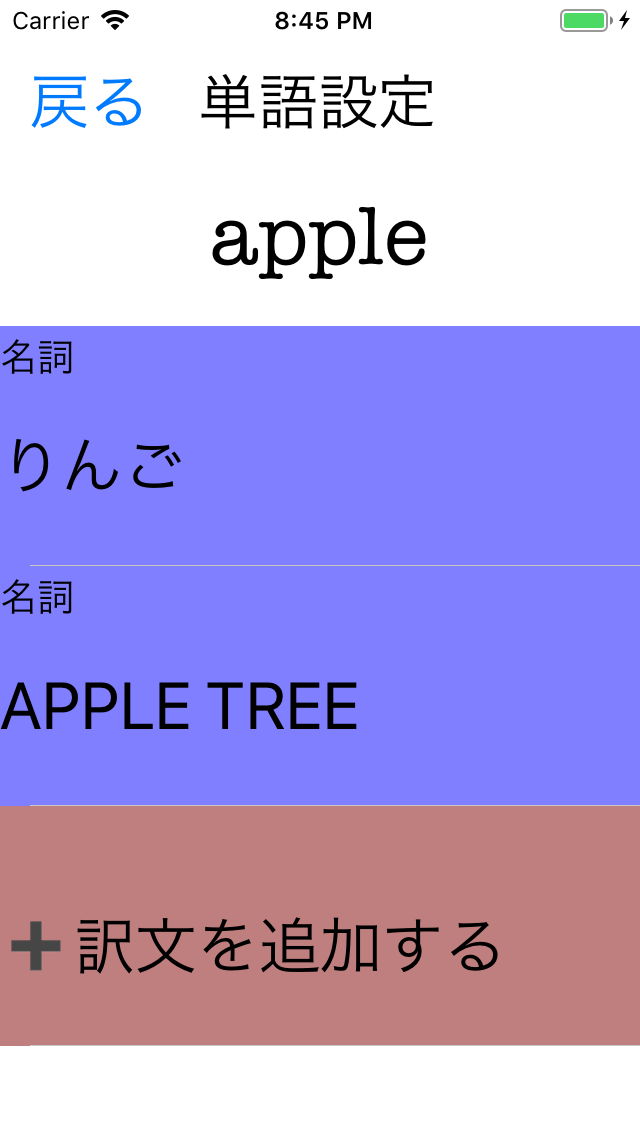
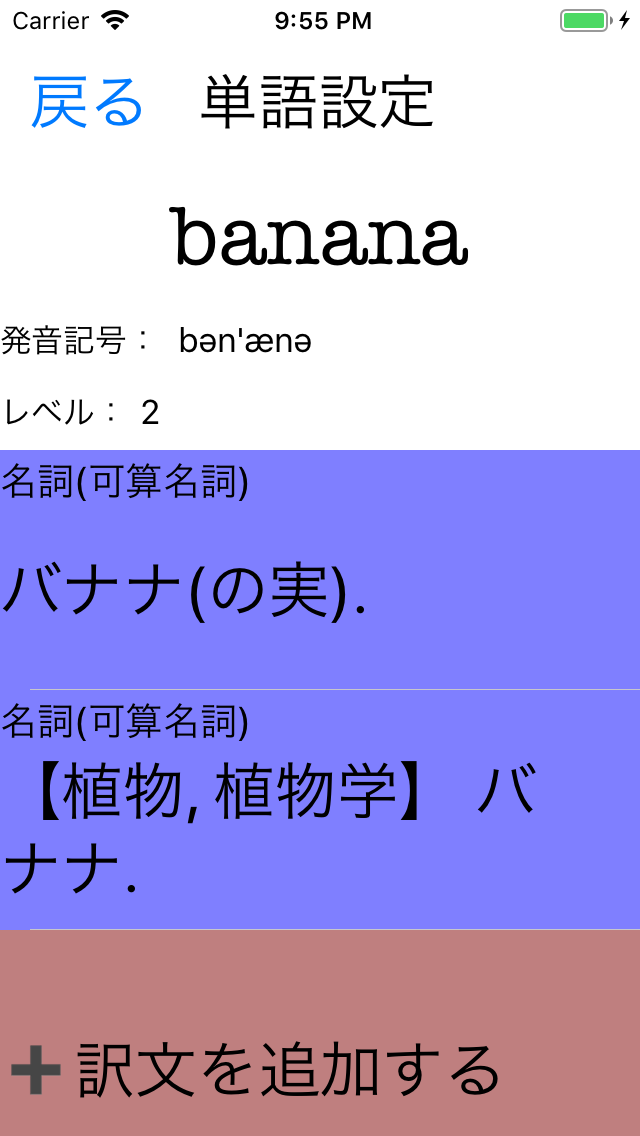
単語設定画面に発音記号とレベルを表示（入力されてある場合のみ）

diff --git a/EnglishWords/EnglishWords/ConfigureWordViewController.swift b/EnglishWords/EnglishWords/ConfigureWordViewController.swift
@@ -13,6 +13,8 @@ import RealmSwift
 class ConfigureWordViewController: UIViewController, UITableViewDelegate, UITableViewDataSource {
     
     @IBOutlet var wordnamelabel: UILabel!
+    @IBOutlet var pronounce: UILabel!
+    @IBOutlet var level: UILabel!
     @IBOutlet var table:UITableView!
     
     var wordnotebook: WordNoteBook?
@@ -32,6 +34,8 @@ class ConfigureWordViewController: UIViewController, UITableViewDelegate, UITabl
             fromdictflag = true
         }
         wordnamelabel.text = selectedword?.wordName
+        pronounce.text = selectedword?.option1
+        level.text = selectedword?.option2
             
         //選択したWordからデータベース内に保存してあるWordDataを全て取得
         let realm: Realm = try! Realm()
